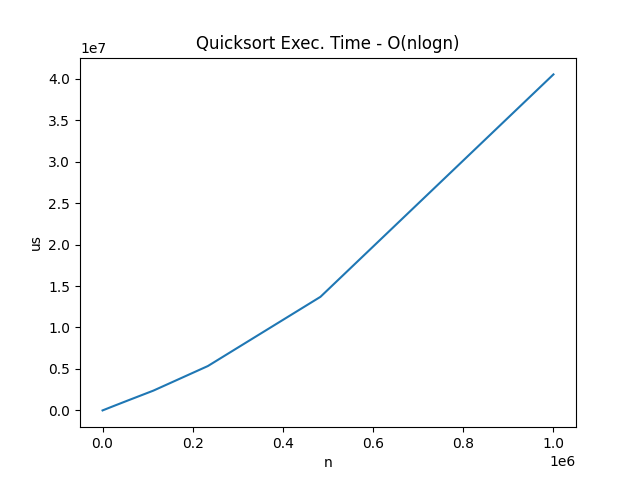
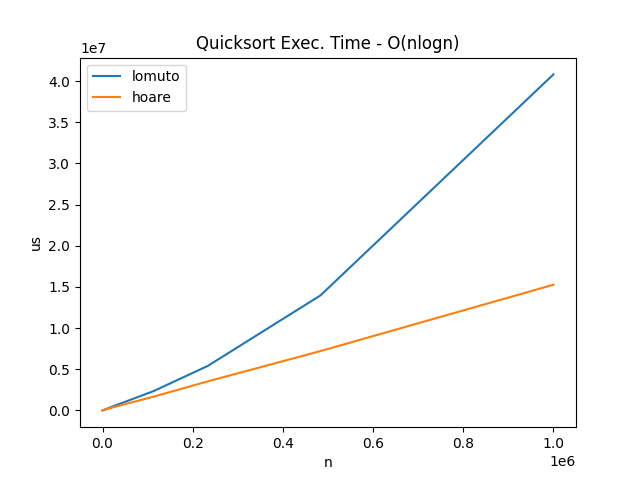
Added Hoare partition method to python/quicksort

diff --git a/python/quicksort/quicksort.py b/python/quicksort/quicksort.py
@@ -1,28 +1,33 @@
 import numpy as np
+import random
 import matplotlib.pyplot as plt
 from time import perf_counter as time
 
 # O(nlogn)
-def quicksort(a: list, inplace=True):
+def quicksort(a: list, inplace=True, pivot_method='hoare'):
     if not inplace:
         arr = a.copy()
     else:
         arr = a
     
     
-    quicksort_util(a, 0, len(a))
+    quicksort_util(a, 0, len(a), pivot_method)
     
     return arr
 
-def quicksort_util(a, i, j):
+def quicksort_util(a, i, j, pivot_method):
     if j - i <= 1:
         return
     
-    pivot_idx = partition_lomuto(a, i, j)
+    if pivot_method == 'lomuto':
+        pivot_idx = partition_lomuto(a, i, j)
+    else: 
+        pivot_idx = partition_hoare(a, i, j)
     
-    quicksort_util(a, i, pivot_idx)
-    quicksort_util(a, pivot_idx, j)
+    quicksort_util(a, i, pivot_idx, pivot_method)
+    quicksort_util(a, pivot_idx, j, pivot_method)
     
+# Slower
 def partition_lomuto(a, i, j):
     pivot_idx = find_pivot(a, i, j)
     pivot = a[pivot_idx]
@@ -38,6 +43,30 @@ def partition_lomuto(a, i, j):
     a[low], a[j - 1] = a[j - 1], a[low]
     
     return low
+
+# Faster
+def partition_hoare(a, i, j):
+    pivot_idx = find_pivot(a, i, j)
+    pivot = a[pivot_idx]
+    
+    a[i], a[pivot_idx] =  a[pivot_idx], a[i]
+    
+    low = i - 1
+    high = j
+    
+    while True:
+        low +=1
+        while a[low] < pivot:
+            low += 1
+        
+        high -= 1
+        while a[high] > pivot:
+            high -= 1
+            
+        if low >= high:
+            return low
+        
+        a[low], a[high] = a[high], a[low]
     
 def find_pivot(a, i, j):
     rand_idxs = np.random.randint(i, j, size=3)
@@ -49,7 +78,14 @@ def mo3(a, b, c):
     return sorted([a, b, c])[1]
 
 # Test
-print('Quicksort Test 1')
+print('Quicksort Test 1 - Lomuto')
+n_tests = 10
+for _ in range(n_tests):
+    a = np.random.randint(0, 1000000, size=100)
+    assert all(np.array(sorted(a)) == quicksort(a, pivot_method='lomuto'))
+print('PASSED')
+
+print('Quicksort Test 2 - Hoare')
 n_tests = 10
 for _ in range(n_tests):
     a = np.random.randint(0, 1000000, size=100)
@@ -61,22 +97,32 @@ n_trials = 5
 n_arrays = 20
 a_lens = np.logspace(0, 6, num=n_arrays).astype(int)
 
-timings = np.zeros(len(a_lens))
+lomuto_timings = np.zeros(len(a_lens))
+hoare_timings = np.zeros(len(a_lens))
 
 for i, a_len in enumerate(a_lens):    
-    avg_timing = 0
+    lomuto_avg_timing = 0
+    hoare_avg_timing = 0
     
     for trial in range(n_trials):
         a = np.random.randint(0, 10000, size=a_len) * 1000000
         
         start = time()
+        quicksort(a, pivot_method='lomuto')
+        end = time()
+        lomuto_avg_timing += (end - start) / n_trials
+        
+        start = time()
         quicksort(a)
         end = time()
-        avg_timing += (end - start) / n_trials
+        hoare_avg_timing += (end - start) / n_trials
         
-    timings[i] = avg_timing
+    lomuto_timings[i] = lomuto_avg_timing
+    hoare_timings[i] = hoare_avg_timing
     
-plt.plot(a_lens, timings * 10**6)
+plt.plot(a_lens, lomuto_timings * 10**6, label='lomuto')
+plt.plot(a_lens, hoare_timings * 10**6, label='hoare')
+plt.legend()
 plt.title('Quicksort Exec. Time - O(nlogn)')
 plt.xlabel('n')
 plt.ylabel('us')
